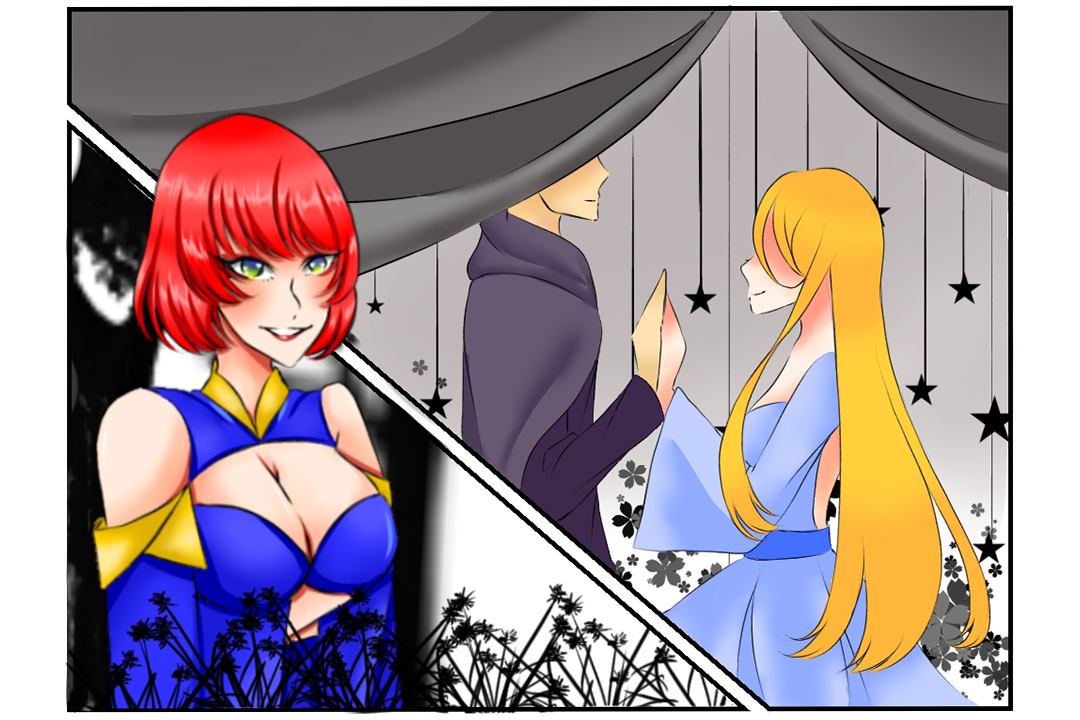
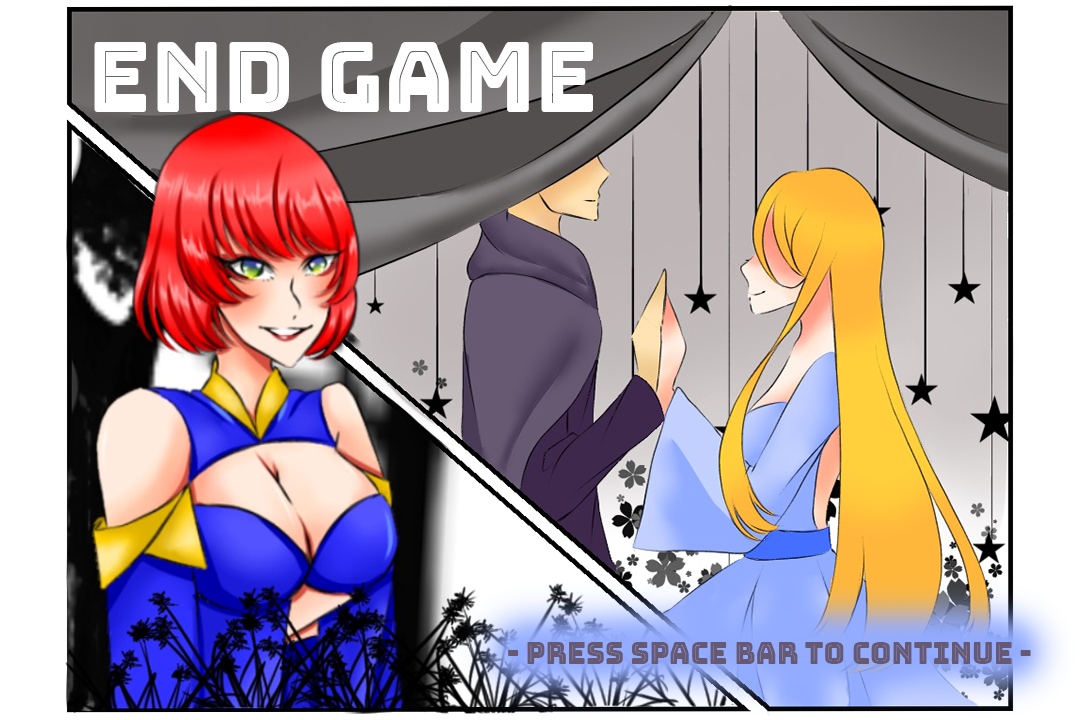
Full

Changed region(s): [[0.4278, 0.825, 0.9778, 0.9778], [0.0611, 0.0611, 0.55, 0.1528]]

diff --git a/GAME_SFML/main.cpp b/GAME_SFML/main.cpp
@@ -2373,8 +2373,8 @@ int main()
 				checksound1 = true;
 			}
 			
-			sf::Text paused("Game Cleared!", font, 30);
-			sf::Text resume("Press 'Space' to proceed", font, 30);
+			sf::Text paused("", font, 30);
+			sf::Text resume("", font, 30);
 
 			window.clear();
 			window.setView(view);
